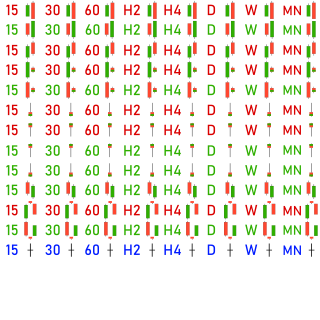
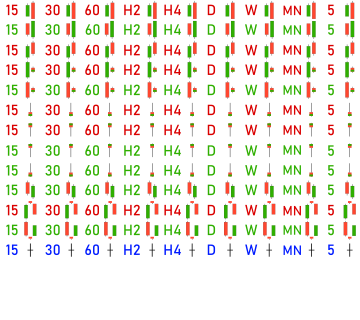
small refactor

diff --git a/src/components/alerts/CandlePattern.css b/src/components/alerts/CandlePattern.css
@@ -65,6 +65,10 @@
 .bearish-reversal-pattern-engulfing-month {
     background: url("images/candle-patterns.png") no-repeat -280px 0;
 }
+.bearish-reversal-pattern-engulfing-m5 {
+    background: url("images/candle-patterns.png") no-repeat -320px 0;
+}
+
 /*------------------------------------------------*/
 .bullish-reversal-pattern-engulfing-m15 {
     background: url("images/candle-patterns.png") no-repeat 0 -20px;
@@ -90,6 +94,10 @@
 .bullish-reversal-pattern-engulfing-month {
     background: url("images/candle-patterns.png") no-repeat -280px -20px;
 }
+.bullish-reversal-pattern-engulfing-m5 {
+    background: url("images/candle-patterns.png") no-repeat -320px -20px;
+}
+
 /*------------------------------------------------*/
 .bearish-reversal-pattern-dark-cloud-cover-m15 {
     background: url("images/candle-patterns.png") no-repeat 0 -40px;
@@ -114,6 +122,9 @@
 }
 .bearish-reversal-pattern-dark-cloud-cover-month {
     background: url("images/candle-patterns.png") no-repeat -280px -40px;
+}
+.bearish-reversal-pattern-dark-cloud-cover-m5 {
+    background: url("images/candle-patterns.png") no-repeat -320px -40px;
 }
 
 /*------------------------------------------------*/
@@ -141,6 +152,9 @@
 .bearish-reversal-pattern-harami-month {
     background: url("images/candle-patterns.png") no-repeat -280px -60px;
 }
+.bearish-reversal-pattern-harami-m5 {
+    background: url("images/candle-patterns.png") no-repeat -320px -60px;
+}
 
 /*------------------------------------------------*/
 .bullish-reversal-pattern-harami-m15 {
@@ -166,6 +180,9 @@
 }
 .bullish-reversal-pattern-harami-month {
     background: url("images/candle-patterns.png") no-repeat -280px -80px;
+}
+.bullish-reversal-pattern-harami-m5 {
+    background: url("images/candle-patterns.png") no-repeat -320px -80px;
 }
 
 /*------------------------------------------------*/
@@ -193,6 +210,9 @@
 .bearish-reversal-pattern-shooting-star-month {
     background: url("images/candle-patterns.png") no-repeat -280px -100px;
 }
+.bearish-reversal-pattern-shooting-star-m5 {
+    background: url("images/candle-patterns.png") no-repeat -320px -100px;
+}
 
 /*------------------------------------------------*/
 .bearish-reversal-pattern-hanging-man-m15 {
@@ -218,6 +238,9 @@
 }
 .bearish-reversal-pattern-hanging-man-month {
     background: url("images/candle-patterns.png") no-repeat -280px -120px;
+}
+.bearish-reversal-pattern-hanging-man-m5 {
+    background: url("images/candle-patterns.png") no-repeat -320px -120px;
 }
 
 /*------------------------------------------------*/
@@ -245,6 +268,9 @@
 .bullish-reversal-pattern-hammer-month {
     background: url("images/candle-patterns.png") no-repeat -280px -140px;
 }
+.bullish-reversal-pattern-hammer-m5 {
+    background: url("images/candle-patterns.png") no-repeat -320px -140px;
+}
 
 /*------------------------------------------------*/
 .bullish-reversal-pattern-inverted-hammer-m15 {
@@ -270,6 +296,9 @@
 }
 .bullish-reversal-pattern-inverted-hammer-month {
     background: url("images/candle-patterns.png") no-repeat -280px -160px;
+}
+.bullish-reversal-pattern-inverted-hammer-m5 {
+    background: url("images/candle-patterns.png") no-repeat -320px -160px;
 }
 
 /*------------------------------------------------*/
@@ -297,6 +326,9 @@
 .bullish-reversal-pattern-piercing-month {
     background: url("images/candle-patterns.png") no-repeat -280px -180px;
 }
+.bullish-reversal-pattern-piercing-m5 {
+    background: url("images/candle-patterns.png") no-repeat -320px -180px;
+}
 
 /*------------------------------------------------*/
 .bearish-reversal-pattern-evening-star-m15 {
@@ -322,6 +354,9 @@
 }
 .bearish-reversal-pattern-evening-star-month {
     background: url("images/candle-patterns.png") no-repeat -280px -200px;
+}
+.bearish-reversal-pattern-evening-star-m5 {
+    background: url("images/candle-patterns.png") no-repeat -320px -200px;
 }
 
 /*------------------------------------------------*/
@@ -349,6 +384,9 @@
 .bullish-reversal-pattern-morning-star-month {
     background: url("images/candle-patterns.png") no-repeat -280px -220px;
 }
+.bullish-reversal-pattern-morning-star-m5 {
+    background: url("images/candle-patterns.png") no-repeat -320px -220px;
+}
 
 /*------------------------------------------------*/
 .reversal-pattern-doji-m15 {
@@ -374,4 +412,7 @@
 }
 .reversal-pattern-doji-month {
     background: url("images/candle-patterns.png") no-repeat -280px -240px;
+}
+.reversal-pattern-doji-m5 {
+    background: url("images/candle-patterns.png") no-repeat -320px -240px;
 }

diff --git a/src/features/tradestrategyanalysis/analysis/AnalysisFutures.tsx b/src/features/tradestrategyanalysis/analysis/AnalysisFutures.tsx
@@ -121,8 +121,20 @@ const AnalysisFutures: React.FC<Props> = ({classCode, timeFrameHigh, timeFrameTr
         setAlert(alert);
     };
 
-    if (future && premise) {
-        const {trends} = premise.analysis;
+    if (future) {
+        let security: SecurityLastInfo = securityLastInfo;
+        if (!security) {
+            security = {
+                secCode: future.secCode,
+                classCode: ClassCode.SPBFUT,
+                priceLastTrade: future.lastTradePrice,
+                timeLastTrade: null,
+                quantityLastTrade: null,
+                numTrades: null,
+                valueLastTrade: null,
+                valueToday: null
+            };
+        }
 
         return (
             <div>
@@ -136,30 +148,30 @@ const AnalysisFutures: React.FC<Props> = ({classCode, timeFrameHigh, timeFrameTr
                             alert ?
                                 <ChartWrapper interval={alert.interval}
                                               alert={alert}
-                                              numberOfCandles={168}
+                                              numberOfCandles={600}
                                               width={chartAlertsWidth}
-                                              security={securityLastInfo}
+                                              security={security}
                                               premise={premise}
                                               showGrid={true}
                                               fetchCandlesIntervalInMilliseconds={1000}/> : null
                         }
                     </div>
                 </div>
-                <TrendsView trends={trends}/>
+                <TrendsView trends={premise ? premise.analysis.trends : []}/>
                 <div className="p-grid" style={{margin: '0'}}>
-                    <div className="p-col-8" ref={chart1Ref} style={{padding: '0'}}>
+                    <div className="p-col-7" ref={chart1Ref} style={{padding: '0'}}>
                         <ChartWrapper interval={timeFrameTrading}
-                                      numberOfCandles={168}
+                                      numberOfCandles={1000}
                                       width={chart1Width}
-                                      security={securityLastInfo}
+                                      security={security}
                                       premise={premise}
                                       showGrid={true}/>
                     </div>
-                    <div className="p-col-4" ref={chart2Ref} style={{padding: '0'}}>
+                    <div className="p-col-5" ref={chart2Ref} style={{padding: '0'}}>
                         <ChartWrapper interval={timeFrameLow}
-                                      numberOfCandles={540}
+                                      numberOfCandles={2400}
                                       width={chart2Width}
-                                      security={securityLastInfo}
+                                      security={security}
                                       trend={trendLowTF}
                                       showGrid={true}/>
                     </div>
